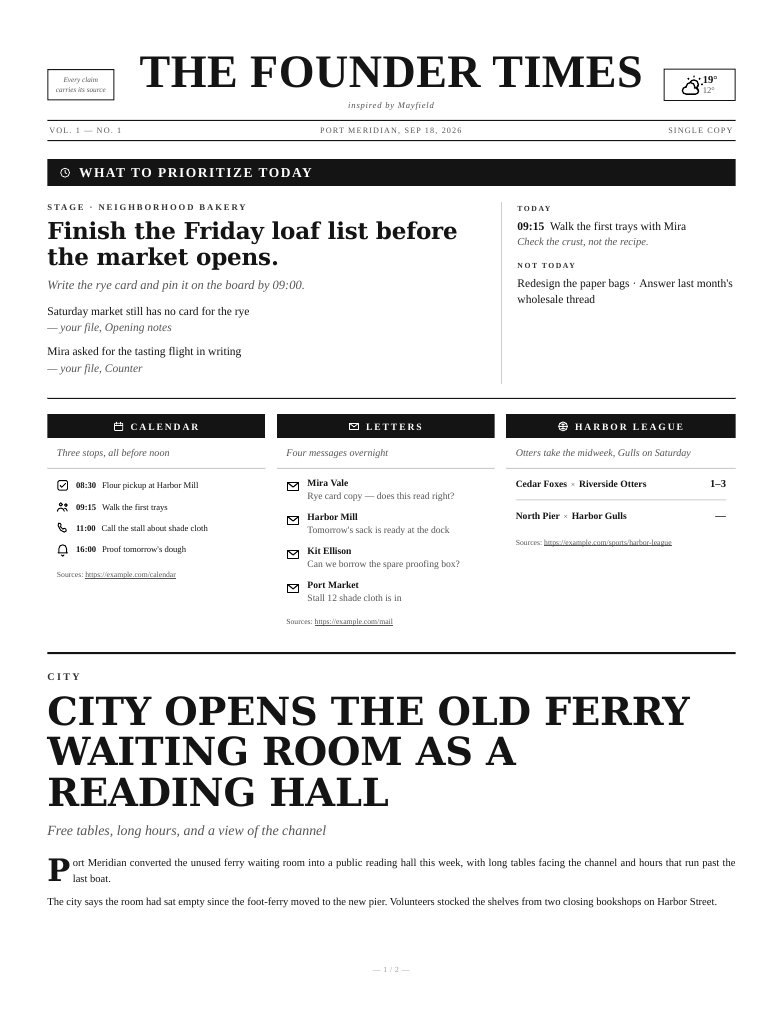
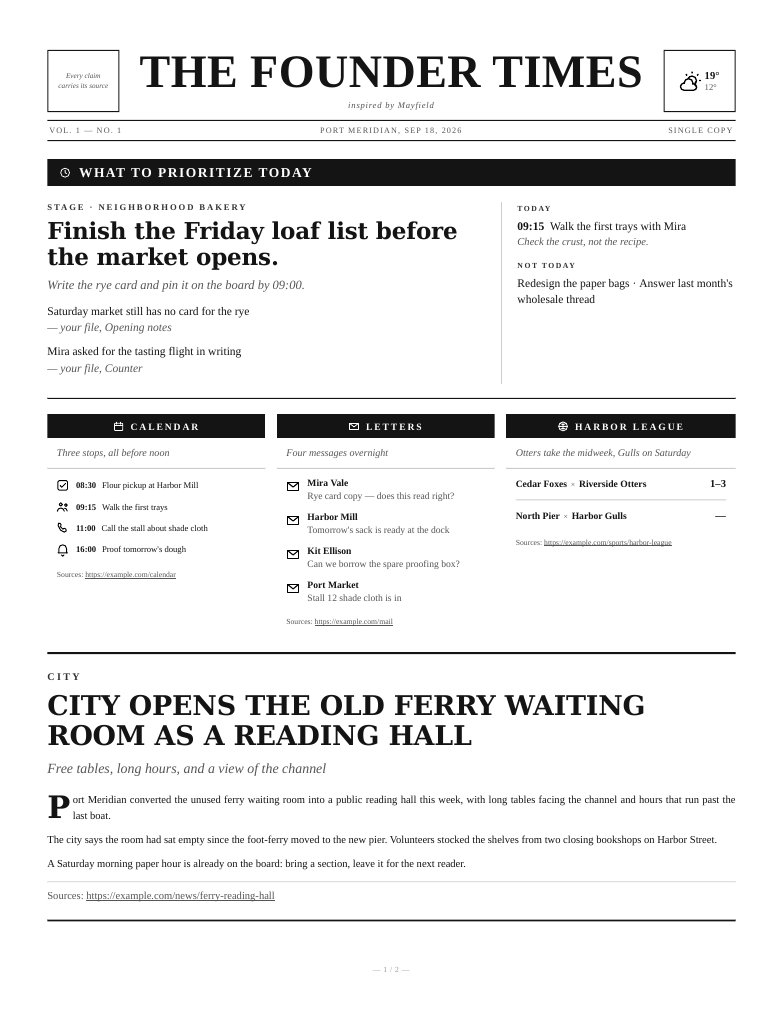
Update edition images and refine template and rendering logic
- Reshot edition images for improved quality.
- Removed unnecessary HTML elements in the template for cleaner output.
- Simplified the fallback logic in the weather rendering script to enhance readability and maintainability.
- Cleaned up test cases by removing obsolete tests related to empty desk emissions.

Changed region(s): [[0.0613, 0.6562, 0.9195, 0.9062], [0.0613, 0.0625, 0.1533, 0.125], [0.8582, 0.0625, 0.9195, 0.0938]]

diff --git a/pt-edition/template.html b/pt-edition/template.html
@@ -140,7 +140,6 @@
       .masthead-cell { vertical-align: bottom; text-align: center; padding: 0 12px; }
       .masthead-credit-cell { vertical-align: top; text-align: center; padding: 0 12px; }
       .ear-box { display: block; font-family: Georgia, "Times New Roman", serif; font-size: 7.5px; font-style: italic; line-height: 1.35; color: var(--ink-soft); text-align: center; }
-      .ear-fill { display: block; }
       .ear-weather { font-style: normal; }
       .ear-weather .wx-icon-wrap { color: var(--ink); line-height: 0; margin: 0; display: inline-block; vertical-align: middle; }
       .ear-weather .ear-wx-temps { display: inline-block; vertical-align: middle; text-align: left; margin-left: 4px; }
@@ -369,7 +368,7 @@
     <table class="masthead-row">
       <tr>
         <td class="ear ear-left" rowspan="2">
-          <span class="ear-box"><span class="ear-fill">Every claim<br />carries its source</span></span>
+          <span class="ear-box">Every claim<br />carries its source</span>
         </td>
         <td class="masthead-cell">
           <h1 class="nameplate">{{MASTHEAD}}</h1>

diff --git a/pt-edition/scripts/render_edition.py b/pt-edition/scripts/render_edition.py
@@ -607,11 +607,7 @@ def weather_ear_html(weather_sections):
     else on the page, so this is the one place the paper's weather shows
     up at all. Falls back to the plain tagline box when there's no
     forecast to draw from (a prose-only weather section, or none today)."""
-    fallback = (
-        '<span class="ear-box"><span class="ear-fill">'
-        "One edition<br>for one reader"
-        "</span></span>"
-    )
+    fallback = '<span class="ear-box">One edition<br>for one reader</span>'
     for section in weather_sections:
         forecast = section.get("forecast")
         if forecast:
@@ -620,13 +616,13 @@ def weather_ear_html(weather_sections):
             high = html.escape(str(today["high"]))
             low = html.escape(str(today["low"]))
             return (
-                '<span class="ear-box"><span class="ear-fill ear-weather">'
+                '<span class="ear-box ear-weather">'
                 f'<span class="wx-icon-wrap">{icon}</span>'
                 '<span class="ear-wx-temps">'
                 f'<span class="ear-wx-high">{high}&deg;</span>'
                 f'<span class="ear-wx-low">{low}&deg;</span>'
                 "</span>"
-                "</span></span>"
+                "</span>"
             )
     return fallback
 

diff --git a/tests/test_render_edition.py b/tests/test_render_edition.py
@@ -599,10 +599,6 @@ class TestHtml:
         assert "section--weather" not in desks
         assert "ear-box" in ear
 
-    def test_empty_desk_emits_no_card(self):
-        page = render.render_html(edition(), render.DEFAULT_MASTHEAD, "{{DESKS_INLINE}}")
-        assert page == ""
-
     def test_weather_forecast_draws_the_ear(self):
         data = edition(sections=[{
             "kind": "section", "title": "Weather", "desk": "weather", "body": "rain",
